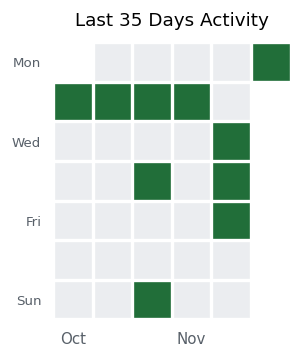
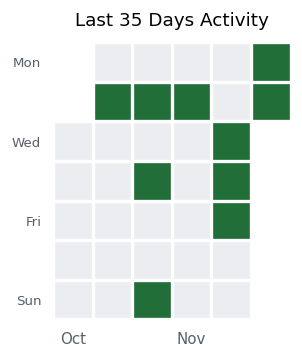
Lab Entry: 2026-11-10

Changed region(s): [[0.8344, 0.2151, 0.9834, 0.338], [0.1788, 0.2151, 0.3278, 0.338]]

diff --git a/README.md b/README.md
@@ -1,10 +1,10 @@
-# 🏃 平均週 2.2 回でつーがく中！
+# 🏃 平均週 2.3 回でつーがく中！
 <p align="center">
   <img src="./monthly_report.png" alt="Attendance Calendar">
 </p>
 
 ___
-*最終更新: 2026-11-09*
+*最終更新: 2026-11-10*
 
 ## セットアップ
 
